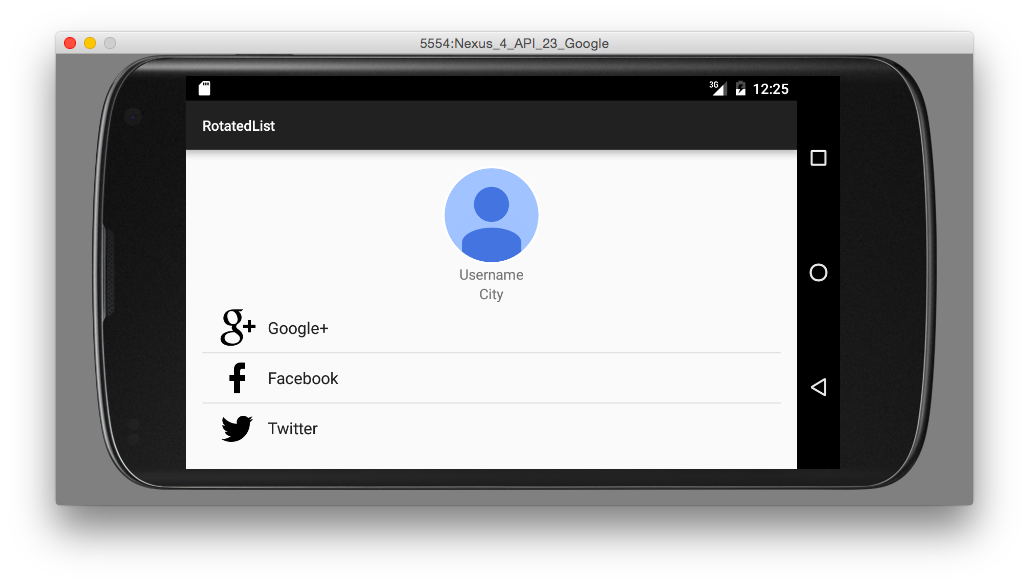
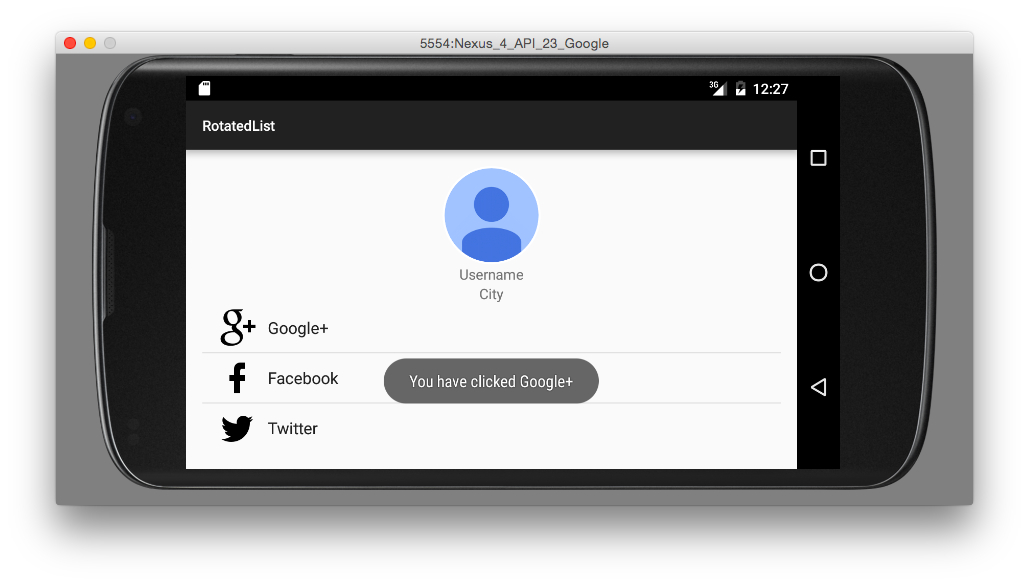
Enable single choice mode

Changed region(s): [[0.3732, 0.5846, 0.5909, 0.7077]]

diff --git a/RotatedList/app/src/main/java/de/afarber/rotatedlist/AccountFragment.java b/RotatedList/app/src/main/java/de/afarber/rotatedlist/AccountFragment.java
@@ -24,12 +24,20 @@ public class AccountFragment extends ListFragment {
     public View onCreateView(LayoutInflater inflater, ViewGroup container,
                              Bundle savedInstanceState) {
         Log.d(TAG, "onCreateView");
+
         return inflater.inflate(R.layout.fragment_account, container, false);
     }
 
     @Override
+    public void onViewCreated(View view, Bundle savedInstanceState) {
+        super.onViewCreated(view, savedInstanceState);
+        getListView().setChoiceMode(ListView.CHOICE_MODE_SINGLE);
+    }
+
+    @Override
     public void onListItemClick(ListView l, View v, int position, long id) {
-        Toast.makeText(getContext(), "You have clicked " + getListAdapter().getItem(position), Toast.LENGTH_SHORT).show();
+        Toast.makeText(getContext(), "You have clicked " +
+                getListAdapter().getItem(position), Toast.LENGTH_SHORT).show();
     }
 
     @Override
@@ -38,7 +46,8 @@ public class AccountFragment extends ListFragment {
         Log.d(TAG, "onAttach");
 
         setListAdapter(new ArrayAdapter<String>(context,
-                android.R.layout.simple_list_item_1,
+//                android.R.layout.simple_list_item_single_choice,
+                android.R.layout.simple_list_item_checked,
                 MainActivity.ACCOUNT_LABELS) {
             @Override
             public View getView(int position, View convertView, ViewGroup parent) {
